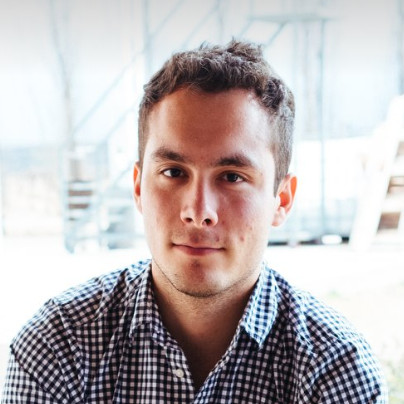
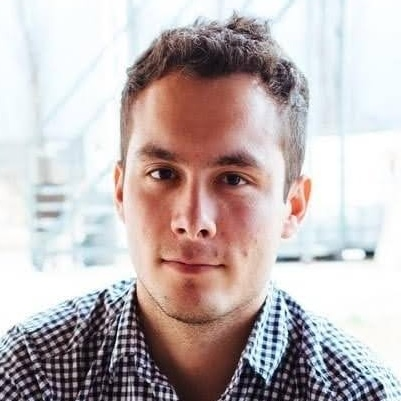
Add profile picture

diff --git a/plugins/structured_data/mod.ts b/plugins/structured_data/mod.ts
@@ -35,7 +35,12 @@ declare global {
     | BlogPostingSD
     | AnySD;
 
-  interface WebSiteSD {
+  interface BaseSD {
+    "@type": string;
+    "@id"?: string;
+  }
+
+  interface WebSiteSD extends BaseSD {
     "@type": "WebSite";
     url: SomeURL;
     name: Val<string>;
@@ -43,7 +48,7 @@ declare global {
     author?: Val<PersonSD>;
   }
 
-  interface BlogPostingSD {
+  interface BlogPostingSD extends BaseSD {
     "@type": "BlogPosting";
     mainEntityOfPage: SomeURL;
     url: SomeURL;
@@ -57,14 +62,14 @@ declare global {
     keywords?: Val<string[]>;
   }
 
-  interface PersonSD {
+  interface PersonSD extends BaseSD {
     "@type": "Person";
     name: Val<string>;
     url: SomeURL;
     alternateName?: Val<string>;
   }
 
-  interface BreadcrumpListSD {
+  interface BreadcrumpListSD extends BaseSD {
     "@type": "BreadcrumbList";
     itemListElement: {
       "@type": "ListItem";
@@ -74,7 +79,7 @@ declare global {
     }[];
   }
 
-  interface AnySD {
+  interface AnySD extends BaseSD {
     "@type": string;
     [key: string]: unknown;
   }

diff --git a/src/index.page.tsx b/src/index.page.tsx
@@ -27,7 +27,15 @@ export default ({ search }: Lume.Data, h: Lume.Helpers) => {
         <header>
           <h1 itemprop="name">{title}</h1>
         </header>
-        <section itemprop="description">
+        <section itemprop="description" class="bio">
+          <img
+            itemprop="image"
+            class="avatar"
+            alt={title}
+            src={h.url("/public/resources/me-2018.jpeg")}
+            width="150"
+            height="150"
+          />
           <p>
             I'm a software developer based in Amsterdam who's been writing code
             for nearly 20 years. I am primarily a backend developer, but I have

diff --git a/src/public/css/main.css b/src/public/css/main.css
@@ -430,6 +430,17 @@ img {
 }
 
 /**
+ * Home
+ */
+.bio .avatar {
+  float: right;
+  margin-top: -0.5rem;
+  margin-left: 1rem;
+  border: 1px solid var(--color-background-off3);
+  border-radius: 50%;
+}
+
+/**
  * Post Index
  */
 .post-index {

diff --git a/src/_data.ts b/src/_data.ts
@@ -14,6 +14,7 @@ export const config = {
   data: {
     get author(): PersonSD {
       return {
+        "@id": "site-url:/about/#Person",
         "@type": "Person",
         name: "lume-data:config.me.name",
         url: "site-url:/about/",
